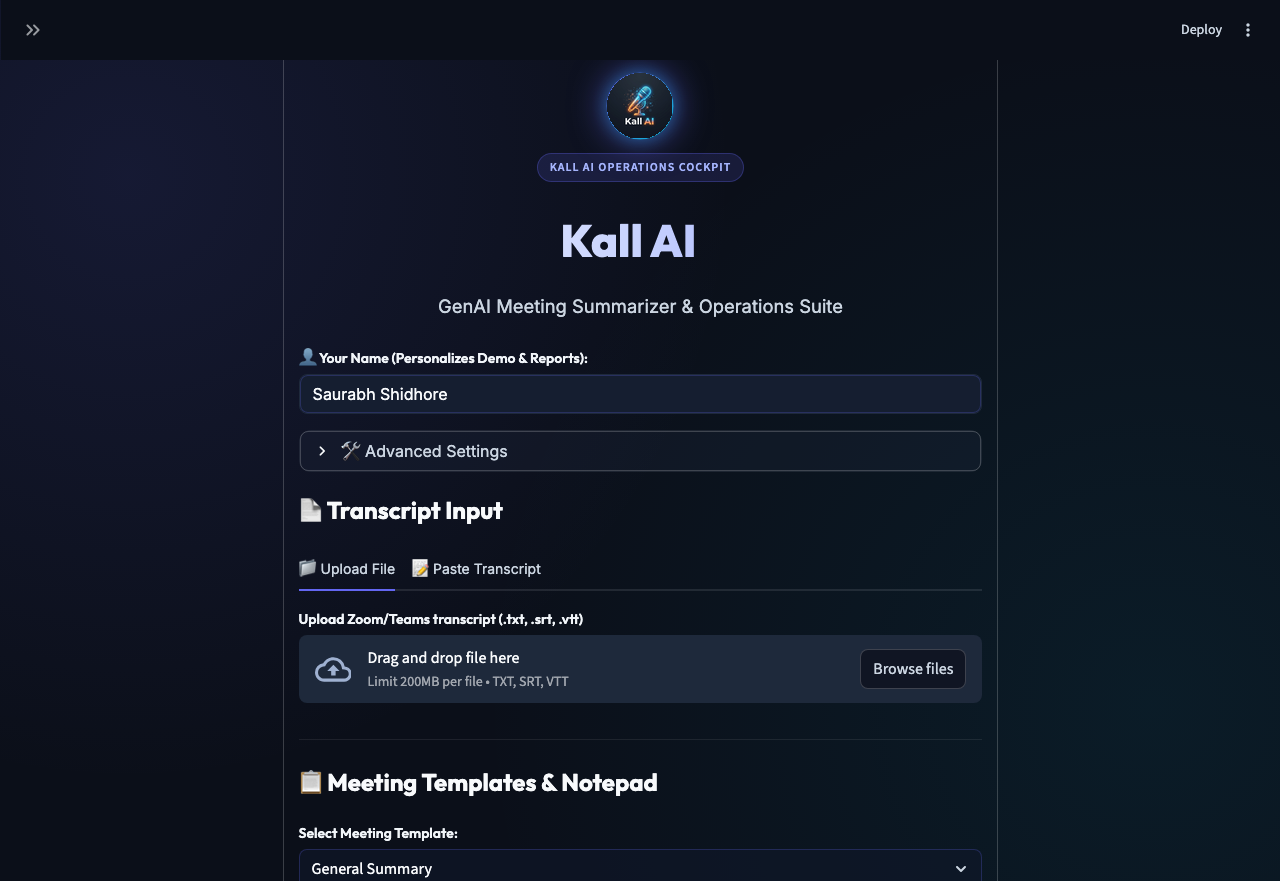
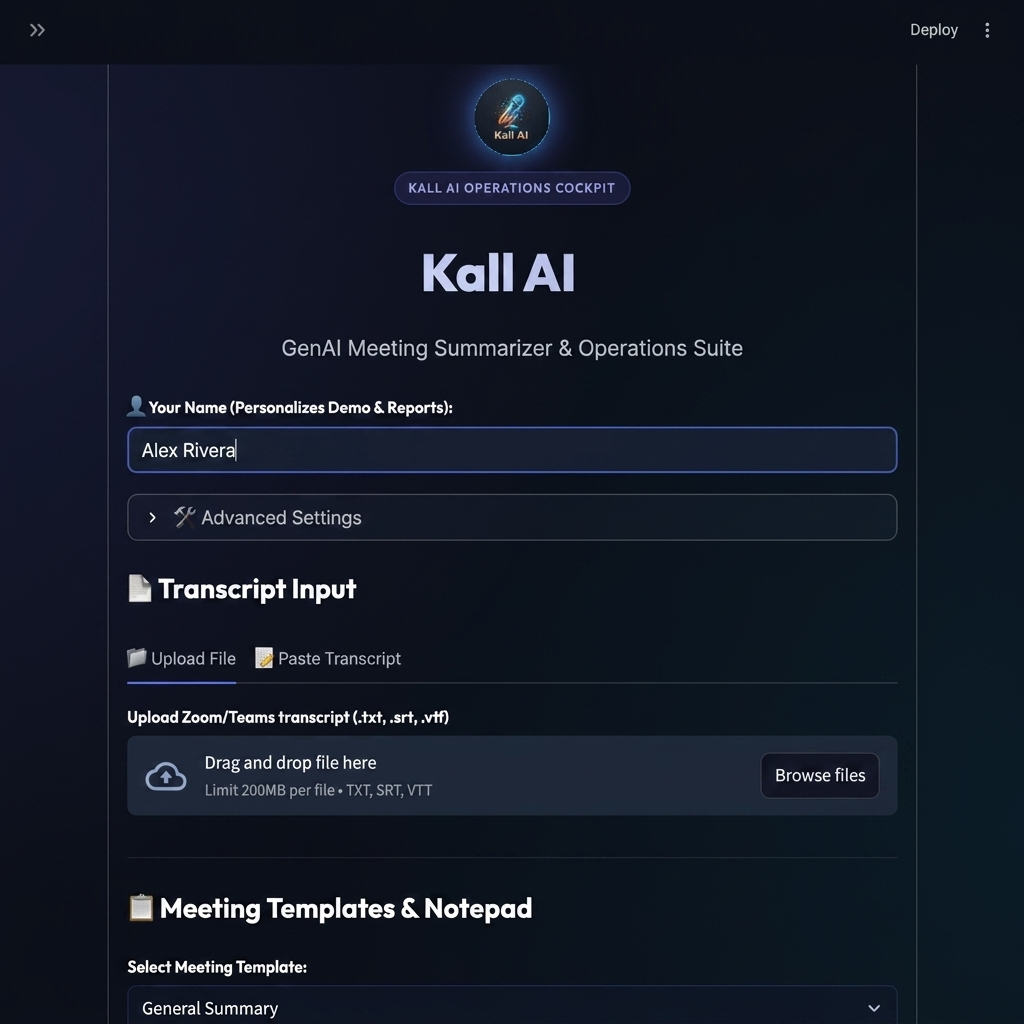
Deploy landing page updates: testimonials, layout fixes, remove name

diff --git a/kall-ai/index.html b/kall-ai/index.html
@@ -1019,6 +1019,54 @@
             display: block;
         }
 
+        /* 🌟 TESTIMONIALS */
+        .testimonials-grid {
+            display: grid;
+            grid-template-columns: repeat(auto-fit, minmax(320px, 1fr));
+            gap: 24px;
+            margin-top: 40px;
+        }
+        .testimonial-card {
+            padding: 32px;
+            display: flex;
+            flex-direction: column;
+            justify-content: space-between;
+            border: 1px solid rgba(255, 255, 255, 0.05);
+            transition: var(--transition-smooth);
+        }
+        .testimonial-card:hover {
+            border-color: rgba(99, 102, 241, 0.3);
+            box-shadow: 0 8px 30px rgba(99, 102, 241, 0.05);
+        }
+        .testimonial-stars {
+            color: #fbbf24;
+            font-size: 0.9rem;
+            margin-bottom: 16px;
+        }
+        .testimonial-quote {
+            font-size: 0.95rem;
+            line-height: 1.6;
+            color: var(--text-secondary);
+            font-style: italic;
+            margin-bottom: 24px;
+        }
+        .testimonial-author {
+            display: flex;
+            flex-direction: column;
+            gap: 2px;
+            border-top: 1px solid rgba(255, 255, 255, 0.05);
+            padding-top: 16px;
+        }
+        .author-name {
+            font-weight: 700;
+            color: var(--text-primary);
+            font-family: 'Outfit', sans-serif;
+        }
+        .author-title {
+            font-size: 0.8rem;
+            color: var(--text-muted);
+        }
+
         /* 📋 FOOTER */
         footer {
             border-top: 1px solid var(--border-color);
@@ -1909,6 +1957,38 @@
                 </div>
             </section>
 
+            <!-- 🌟 TESTIMONIALS SECTION -->
+            <section class="work-section" id="testimonials-section" style="border-top: 1px solid var(--border-color); padding-top: 80px;">
+                <div class="container">
+                    <div class="section-header">
+                        <span>SOCIAL PROOF</span>
+                        <h2>Trusted by builders and product operators</h2>
+                    </div>
+                    
+                    <div class="testimonials-grid">
+                        <!-- Testimonial 1 -->
+                        <div class="glass-card testimonial-card">
+                            <div class="testimonial-stars">⭐⭐⭐⭐⭐</div>
+                            <p class="testimonial-quote">"This app saved our team 10 hours of manual ticket creation per month. The Pydantic-enforced backlogs map straight to our sprints."</p>
+                            <div class="testimonial-author">
+                                <span class="author-name">Alex Rivera</span>
+                                <span class="author-title">Product Manager @ OpsFlow</span>
+                            </div>
+                        </div>
+
+                        <!-- Testimonial 2 -->
+                        <div class="glass-card testimonial-card">
+                            <div class="testimonial-stars">⭐⭐⭐⭐⭐</div>
+                            <p class="testimonial-quote">"The ephemeral privacy design is a game changer. We can analyze engineering retrospectives without worrying about data storage."</p>
+                            <div class="testimonial-author">
+                                <span class="author-name">Elena Rostova</span>
+                                <span class="author-title">Lead Data Engineer</span>
+                            </div>
+                        </div>
+                    </div>
+                </div>
+            </section>
+
             <!-- 🏷 ACCESS PLANS / PRICING SECTION -->
             <section class="pricing-section">
                 <div class="container">
@@ -2001,24 +2081,32 @@
                         <h3>⚡ App Fast-Track Checklist</h3>
                         <ul class="checklist-ul">
                             <li>
+                                <span class="checklist-label">Enter Name :</span>
+                                <span class="checklist-desc">Personalize the workspace by entering your name under 👤 Who's running this session? in the "Paste Transcript" tab.</span>
+                            </li>
+                            <li>
                                 <span class="checklist-label">Load Data :</span>
-                                <span class="checklist-desc">Click "💡 Load Q3 Sprint Demo Transcript" to auto-fill a complete cross-functional alignment call in State 1.</span>
+                                <span class="checklist-desc">Click the "Paste Transcript" tab, then click the `💡 Load Q3 Sprint Demo Transcript` button to auto-fill the demo transcript.</span>
                             </li>
                             <li>
                                 <span class="checklist-label">Extract Insights :</span>
-                                <span class="checklist-desc">Click "🚀 Extract Operational Insights" to execute the structured Pydantic parser.</span>
+                                <span class="checklist-desc">Click the `🚀 Extract Operational Insights` button to run the Pydantic-enforced extraction engine.</span>
                             </li>
                             <li>
-                                <span class="checklist-label">Manage Backlogs :</span>
-                                <span class="checklist-desc">Check off action items in the interactive list and add new tasks to update velocity charts dynamically.</span>
+                                <span class="checklist-label">Select Module :</span>
+                                <span class="checklist-desc">Choose Executive Dashboard, Agile Action Planner, Speaker Analytics, or Ask PM Copilot from the tabs to explore.</span>
                             </li>
                             <li>
-                                <span class="checklist-label">Inspect Speakers :</span>
-                                <span class="checklist-desc">Check talk-time distributions and search raw records inside the Speaker Analytics dashboard.</span>
+                                <span class="checklist-label">Track Backlog :</span>
+                                <span class="checklist-desc">Check off items, and use the task form to verify the velocity charts update dynamically.</span>
                             </li>
                             <li>
-                                <span class="checklist-label">Consult Copilot :</span>
-                                <span class="checklist-desc">Open the chat pane to query past decisions or milestones using Anthropic/Google LLM reasoning.</span>
+                                <span class="checklist-label">Analyze Speakers :</span>
+                                <span class="checklist-desc">Open the Speaker Analytics tab to inspect talk-time shares and filter transcript content.</span>
+                            </li>
+                            <li>
+                                <span class="checklist-label">Chat with Copilot :</span>
+                                <span class="checklist-desc">Select the Ask PM Copilot tab and ask questions about past decisions, deadlines, or project details.</span>
                             </li>
                         </ul>
 
